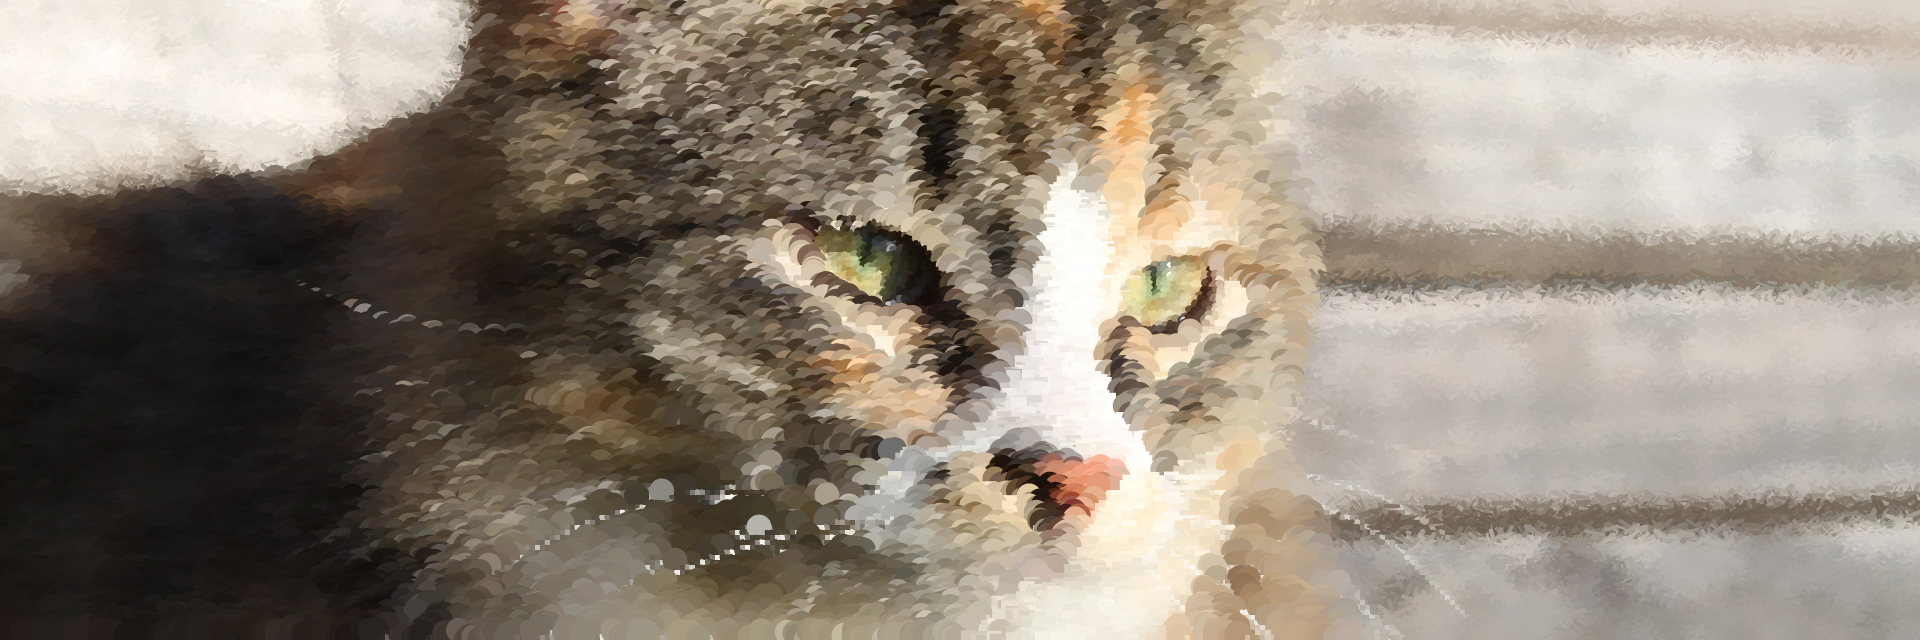
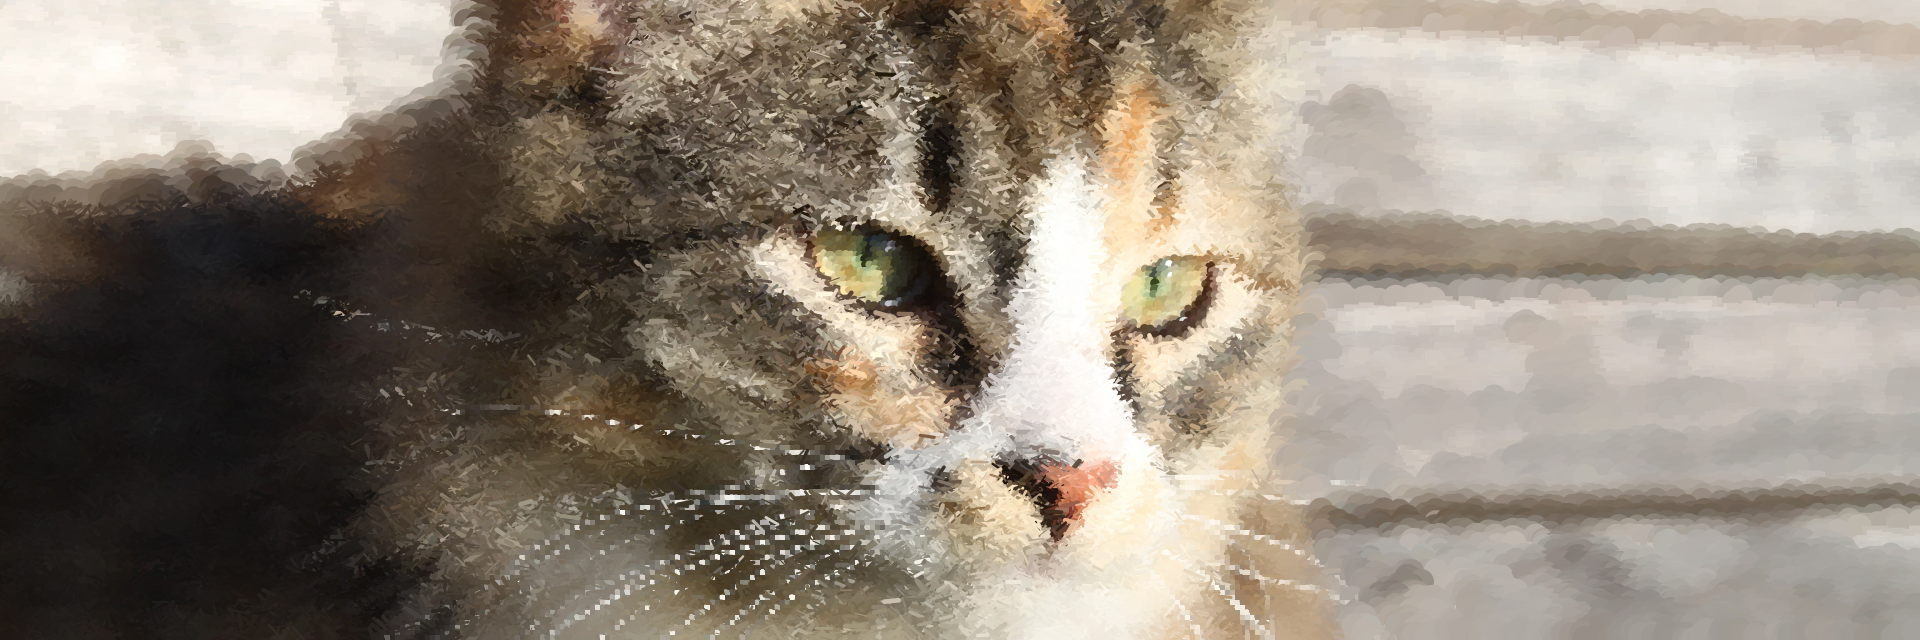
Updated mask 2 and added Final Readme
Wrote out my final readme, and inverted the black and white on the second mask to keep the mask effect consistent across the images.

diff --git a/README.md b/README.md
@@ -2,15 +2,15 @@
 
 (Renders take around 20-25 seconds on my laptop)
 
-To draw my custom pixels, my program takes a grid approach to drawing, going left to right, top to bottom, 5 pixels at a time.
-In the areas of the mask which are white, the 'pixel' is draw as either an ellipse or a rect depending on colour value, with the x and y having slight variation (random change between -5 and 5). The shape is a rect when all 3 rgb values are greater than 175, meaning they're closer to white. All other values are drawn as an ellipse, which is slightly bigger than a rect.
-In the areas of the mask which are black, the pixel is a small line with varying position and weight. This part relies heavily on random numbers, as the strokeweight, and all 4 of the position values are affected by random numbers in some way.
-I have also added two different shades of grey to add further definition.
-The darker shade of grey on the mask, it draws a couple small ellipses at slightly randomized positions and random sizes (between 5 and 10). This provides a slightly more defined look to the image, especially when used to define solid colour, like I do for output_2.
-The lighter shade of grey on the mask draws a 5x5 rect at the exact z,y position, and another small rect at a slightly random position in attempt to fill up white spac
-I'm really liking how this method is working so far, I feel like it gives a sort of painted effect, especially on the background of output_3.
-As far as my images go, I picked these because I think the lighting is really strong and interesting, giving avenue to a lot of slight colour variations.
-I also picked these because I've always been proud of these photos, I think it really shows off how beautiful my cats are and I miss them as I haven't seen them since January since they live with my family.
 
+For the focus of my project, I chose to use some pictures I had of my cats from a fun photoshoot I did a couple of years back. I chose this theme because I don't get to seem them often and I think it would brighten some peoples day to see a couple of cute cats on a billboard in the city. As far as the theme itself goes, I wanted to use the custom pixel to emphasize how fluffy and soft they are, and showcase just the general beauty of my cats. The photos also have good lighting
+and framing, so they work well for this purpose.
 
-The images above are photos of my cats from back home, algorithmically processed with a lightly modified version of the [p5.js Pointillism example](https://p5js.org/examples/image-pointillism.html). The masks for each photo highlight various objects. Replace this text with your own which explains the source of your photos, masking, and applied algorithm.
+In my design process, I started by focusing on how use shapes to enhance the natural shapes present in the images. The main two sections of my mask: the black or white, I feel create quite a striking image.
+The white part, which I have centered on the cats across the images, is a large collection of randomly sized and angled strokes, which I feel really emphasizes the fur of the cats and creates a chaotic feel. This mask is also used on the upper plant matter in the third image, where I feel it is also impactful, as it channels the untamed, natural feel of that area.
+The black part of the mask, which I have used as the primary 'background' feature, is a collection of randomly placed, larger ellipses. The effect it creates feels very abstract painterly, like an old beautiful painting. I feel this effect, again, has the most striking effect in the third image, where the colours of the water in the background create a really striking effect to back up the foreground.
+I also included two grey shade masks, both used for more subtle effects.
+With the darker grey mask, my original intent was to better highlight the eyes of the cat in the second picture, so I chose to use some densely packed ellipses in a smaller size, in hopes to showcase the colours present. I implemented this mask in different ways in the other images, but it's the most prevalent in the second image.
+With the lighter grey, I render those parts in the form of a pixel-esque style, to get a more focused but still stylized look.
+
+Overall, I'm really happy with how the custom pixel portrays my images, I think they're very beautiful. Through working on this project, I've learnt a lot about representing things through code, and how to write code to showcase beautiful things in a new light.
